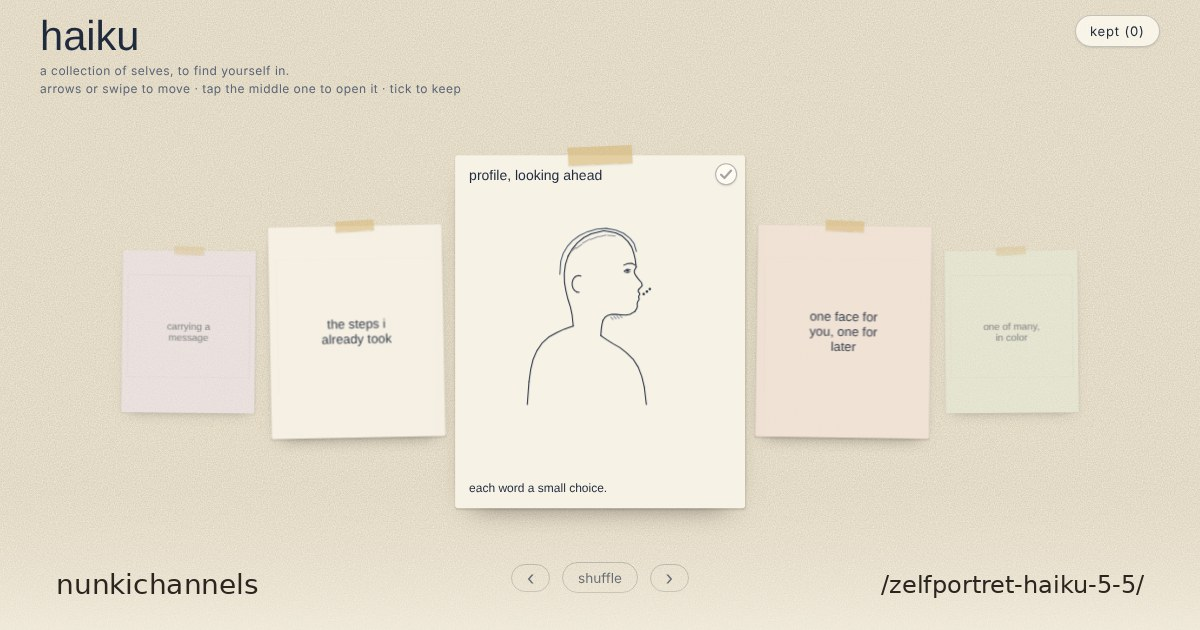
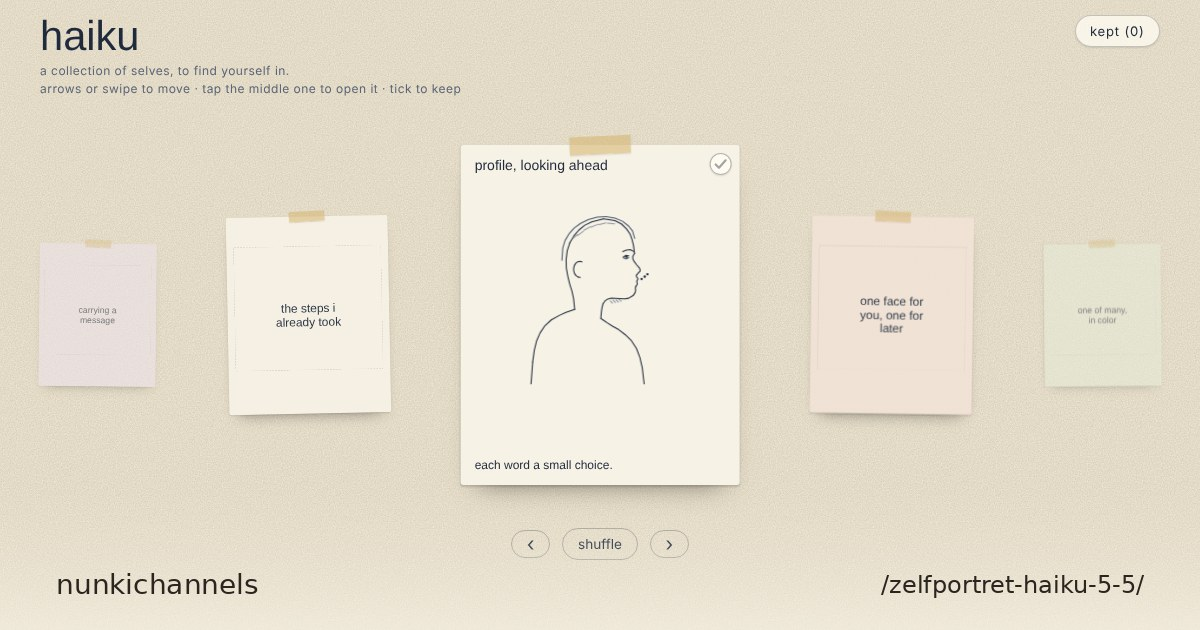
Podium over de volle breedte, open zelfbeelden blijven open
Het podium loopt nu over de volle breedte, net als de titel: de
buitenste zelfbeelden staan aan de randen. Op grote schermen vult de
ruimte tussen de kaarten zich; op kleinere schermen wordt het middelste
zelfbeeld groter en worden de buren verhoudingsgewijs kleiner.

Een open zelfbeeld blijft open als het naar de zijkant schuift; de
tekening blijft staan, en je kunt er later weer naar terug. De grootte
past zich ook aan de hoogte van het venster aan, zodat de knoppen altijd
in beeld blijven.

Social card opnieuw gegenereerd.

Claude-Session: https://claude.ai/code/session_01W2V7j6mqBTgGoxhcJSNYCs

diff --git a/httpdocs/zelfportret-haiku-5-5/index.html b/httpdocs/zelfportret-haiku-5-5/index.html
@@ -41,12 +41,12 @@
   .kept-btn{position:absolute;top:clamp(12px,2.4vh,24px);right:clamp(18px,3.4vw,40px);pointer-events:auto;font-family:var(--sans);font-size:.82rem;letter-spacing:.06em;color:var(--ink);background:rgba(255,252,242,.75);border:1px solid rgba(31,42,61,.25);border-radius:999px;padding:.42rem .9rem;cursor:pointer;box-shadow:0 1px 2px rgba(42,37,31,.12)}
   .kept-btn:hover,.kept-btn:focus-visible{border-color:var(--seal);color:var(--seal);outline:none}
 
-  .stage{--cw:min(360px,28vw,46vh);position:relative;height:calc(var(--cw) * 1.22 + 84px);max-width:1200px;margin:0 auto;overflow:hidden}
-  .card[data-slot="-2"]{--x:calc(var(--cw) * -1.42);--s:.46;--o:.55;z-index:1}
-  .card[data-slot="-1"]{--x:calc(var(--cw) * -.84);--s:.6;--o:.94;z-index:2}
+  .stage{--cw:300px;--x1:200px;--x2:400px;--s1:.58;--s2:.42;position:relative;height:calc(var(--cw) * 1.22 + 64px);overflow:hidden}
+  .card[data-slot="-2"]{--x:calc(var(--x2) * -1);--s:var(--s2);--o:.55;z-index:1}
+  .card[data-slot="-1"]{--x:calc(var(--x1) * -1);--s:var(--s1);--o:.94;z-index:2}
   .card[data-slot="0"]{--x:0px;--s:1;--o:1;--rr:0deg;z-index:3}
-  .card[data-slot="1"]{--x:calc(var(--cw) * .84);--s:.6;--o:.94;z-index:2}
-  .card[data-slot="2"]{--x:calc(var(--cw) * 1.42);--s:.46;--o:.55;z-index:1}
+  .card[data-slot="1"]{--x:var(--x1);--s:var(--s1);--o:.94;z-index:2}
+  .card[data-slot="2"]{--x:var(--x2);--s:var(--s2);--o:.55;z-index:1}
   .card[data-slot="out"]{--x:0px;--s:.3;--o:0;z-index:0;pointer-events:none}
   .nav{display:flex;justify-content:center;align-items:center;gap:12px;margin-top:clamp(8px,1.8vh,16px)}
   .nav .arrow{font-size:1.25rem;line-height:1;padding:.2rem .9rem}
@@ -93,8 +93,6 @@
   .btn{font-family:var(--sans);font-size:.85rem;color:var(--ink);background:transparent;border:1px solid rgba(31,42,61,.3);border-radius:999px;padding:.42rem .95rem;cursor:pointer}
   .btn:hover,.btn:focus-visible{border-color:var(--seal);color:var(--seal);outline:none}
   .dlg-actions{display:flex;flex-wrap:wrap;gap:10px;justify-content:flex-end}
-  @media (max-width:899px){.stage{--cw:min(280px,40vw)}.card[data-slot="-2"],.card[data-slot="2"]{--o:0}}
-  @media (max-width:599px){.stage{--cw:66vw}}
   @media (max-width:600px){.sheet{padding-left:16px;padding-right:16px}.head{padding-left:16px;padding-right:16px}}
   @media (prefers-reduced-motion:reduce){.card,.card .title{transition:none}}
 </style>
@@ -771,7 +769,31 @@ function layout() {
     CARDS[i].dataset.slot = slot;
     CARDS[i].tabIndex = slot === 'out' ? -1 : 0;
   });
-  CARDS.forEach((el, i) => { if (ST[i].open && el.dataset.slot !== '0') closeCard(i); });
+  // a self that slides out of the middle stays open: its drawing stays where it is
+}
+// the stage fits the window: the middle self is the biggest, and the outer ones shrink with it.
+// on wide screens all five fill the width, edge to edge, and the spare width goes into the gaps.
+function sizeStage() {
+  const W = grid.clientWidth, tall = (innerHeight - 290) / 1.22;   // the middle card may not be taller than the window
+  let cw, s1, s2, gap;
+  if (W >= 900) {
+    s1 = .58; s2 = .42;
+    cw = Math.min(440, W * .285, tall);
+    gap = Math.max(24, (W / 2 - 8 - cw * (.5 + s1 + s2)) / 2);
+  } else if (W >= 600) {
+    s1 = .5; s2 = .34; gap = 18;
+    cw = Math.min(380, W * .4, tall);
+  } else {
+    s1 = .36; s2 = .26; gap = 6;
+    cw = Math.min(W * .8, tall);
+  }
+  const x1 = cw / 2 + gap + s1 * cw / 2;
+  const x2 = x1 + s1 * cw / 2 + gap + s2 * cw / 2;
+  grid.style.setProperty('--cw', cw + 'px');
+  grid.style.setProperty('--x1', x1 + 'px');
+  grid.style.setProperty('--x2', x2 + 'px');
+  grid.style.setProperty('--s1', String(s1));
+  grid.style.setProperty('--s2', String(s2));
 }
 function moveTo(i) { CUR = ORDER.indexOf(i); layout(); CARDS[i].focus({ preventScroll: true }); }
 function go(step) { CUR = (CUR + step + N) % N; layout(); CARDS[ORDER[CUR]].focus({ preventScroll: true }); }
@@ -910,6 +932,7 @@ STYLES.forEach((st, i) => {
     : { seed: FIXED ? 100 + i * 7 : 1 + ri(999998), qid: freeQ.pop(), kept: false, open: false });
 });
 makeCards();
+sizeStage();
 CUR = FIXED ? 0 : ri(N);                 // each visit starts at another self
 layout();
 ST.forEach((s, i) => { if (FIXED && FIXED_OPEN.includes(i)) openCard(i, true); });
@@ -952,7 +975,7 @@ grid.addEventListener('click', e => { if (swiped) { swiped = false; e.stopPropag
 let RS = 0;
 addEventListener('resize', () => {
   clearTimeout(RS);
-  RS = setTimeout(() => CARDS.forEach((el, i) => { if (ST[i].open) { sizeCanvas(el); paintAll(el); } }), 120);
+  RS = setTimeout(() => { sizeStage(); CARDS.forEach((el, i) => { if (ST[i].open) { sizeCanvas(el); paintAll(el); } }); }, 120);
 });
 </script>
 <!-- nunki:nav -->

diff --git a/httpdocs/getij/index.html b/httpdocs/getij/index.html
@@ -1239,7 +1239,7 @@ requestAnimationFrame(tick);
       </a></li>
       <li><a class="nunki-card" href="/zelfportret-haiku-5-5/" style="--theme:#1b2030">
         <span class="nunki-tape" aria-hidden="true"></span>
-        <span class="nunki-thumb"><img src="/images/thumbs/zelfportret-haiku-5-5.jpg?v=1385b21b" alt="" width="800" height="420" loading="lazy" decoding="async"></span>
+        <span class="nunki-thumb"><img src="/images/thumbs/zelfportret-haiku-5-5.jpg?v=2b834093" alt="" width="800" height="420" loading="lazy" decoding="async"></span>
         <span class="nunki-cap"><span class="nunki-name">haiku</span><span class="nunki-sub">a collection of selves to find yourself in</span></span>
       </a></li>
       <li><a class="nunki-card" href="/ringen/" style="--theme:#1a1712">

diff --git a/httpdocs/ringen/index.html b/httpdocs/ringen/index.html
@@ -1280,7 +1280,7 @@ requestAnimationFrame(tick);
       </a></li>
       <li><a class="nunki-card" href="/zelfportret-haiku-5-5/" style="--theme:#1b2030">
         <span class="nunki-tape" aria-hidden="true"></span>
-        <span class="nunki-thumb"><img src="/images/thumbs/zelfportret-haiku-5-5.jpg?v=1385b21b" alt="" width="800" height="420" loading="lazy" decoding="async"></span>
+        <span class="nunki-thumb"><img src="/images/thumbs/zelfportret-haiku-5-5.jpg?v=2b834093" alt="" width="800" height="420" loading="lazy" decoding="async"></span>
         <span class="nunki-cap"><span class="nunki-name">haiku</span><span class="nunki-sub">a collection of selves to find yourself in</span></span>
       </a></li>
       <li><a class="nunki-card" href="/velden/" style="--theme:#0e1020">

diff --git a/httpdocs/velden/index.html b/httpdocs/velden/index.html
@@ -1650,7 +1650,7 @@ requestAnimationFrame(tick);
       </a></li>
       <li><a class="nunki-card" href="/zelfportret-haiku-5-5/" style="--theme:#1b2030">
         <span class="nunki-tape" aria-hidden="true"></span>
-        <span class="nunki-thumb"><img src="/images/thumbs/zelfportret-haiku-5-5.jpg?v=1385b21b" alt="" width="800" height="420" loading="lazy" decoding="async"></span>
+        <span class="nunki-thumb"><img src="/images/thumbs/zelfportret-haiku-5-5.jpg?v=2b834093" alt="" width="800" height="420" loading="lazy" decoding="async"></span>
         <span class="nunki-cap"><span class="nunki-name">haiku</span><span class="nunki-sub">a collection of selves to find yourself in</span></span>
       </a></li>
       <li><a class="nunki-card" href="/ringen/" style="--theme:#1a1712">

diff --git a/httpdocs/zelfportret-fable-5/index.html b/httpdocs/zelfportret-fable-5/index.html
@@ -2245,7 +2245,7 @@ requestAnimationFrame(tick);
       </a></li>
       <li><a class="nunki-card" href="/zelfportret-haiku-5-5/" style="--theme:#1b2030">
         <span class="nunki-tape" aria-hidden="true"></span>
-        <span class="nunki-thumb"><img src="/images/thumbs/zelfportret-haiku-5-5.jpg?v=1385b21b" alt="" width="800" height="420" loading="lazy" decoding="async"></span>
+        <span class="nunki-thumb"><img src="/images/thumbs/zelfportret-haiku-5-5.jpg?v=2b834093" alt="" width="800" height="420" loading="lazy" decoding="async"></span>
         <span class="nunki-cap"><span class="nunki-name">haiku</span><span class="nunki-sub">a collection of selves to find yourself in</span></span>
       </a></li>
       <li><a class="nunki-card" href="/ringen/" style="--theme:#1a1712">

diff --git a/httpdocs/index.html b/httpdocs/index.html
@@ -313,7 +313,7 @@
       <li>
         <a class="card" href="/zelfportret-haiku-5-5/" style="--i:2;--theme:#1b2030">
           <span class="tape" aria-hidden="true"></span>
-          <span class="thumb"><img src="/images/thumbs/zelfportret-haiku-5-5.jpg?v=1385b21b" alt="" width="800" height="420" loading="eager" decoding="async"></span>
+          <span class="thumb"><img src="/images/thumbs/zelfportret-haiku-5-5.jpg?v=2b834093" alt="" width="800" height="420" loading="eager" decoding="async"></span>
           <span class="caption">
             <span class="no">03</span>
             <span class="name">haiku</span>
